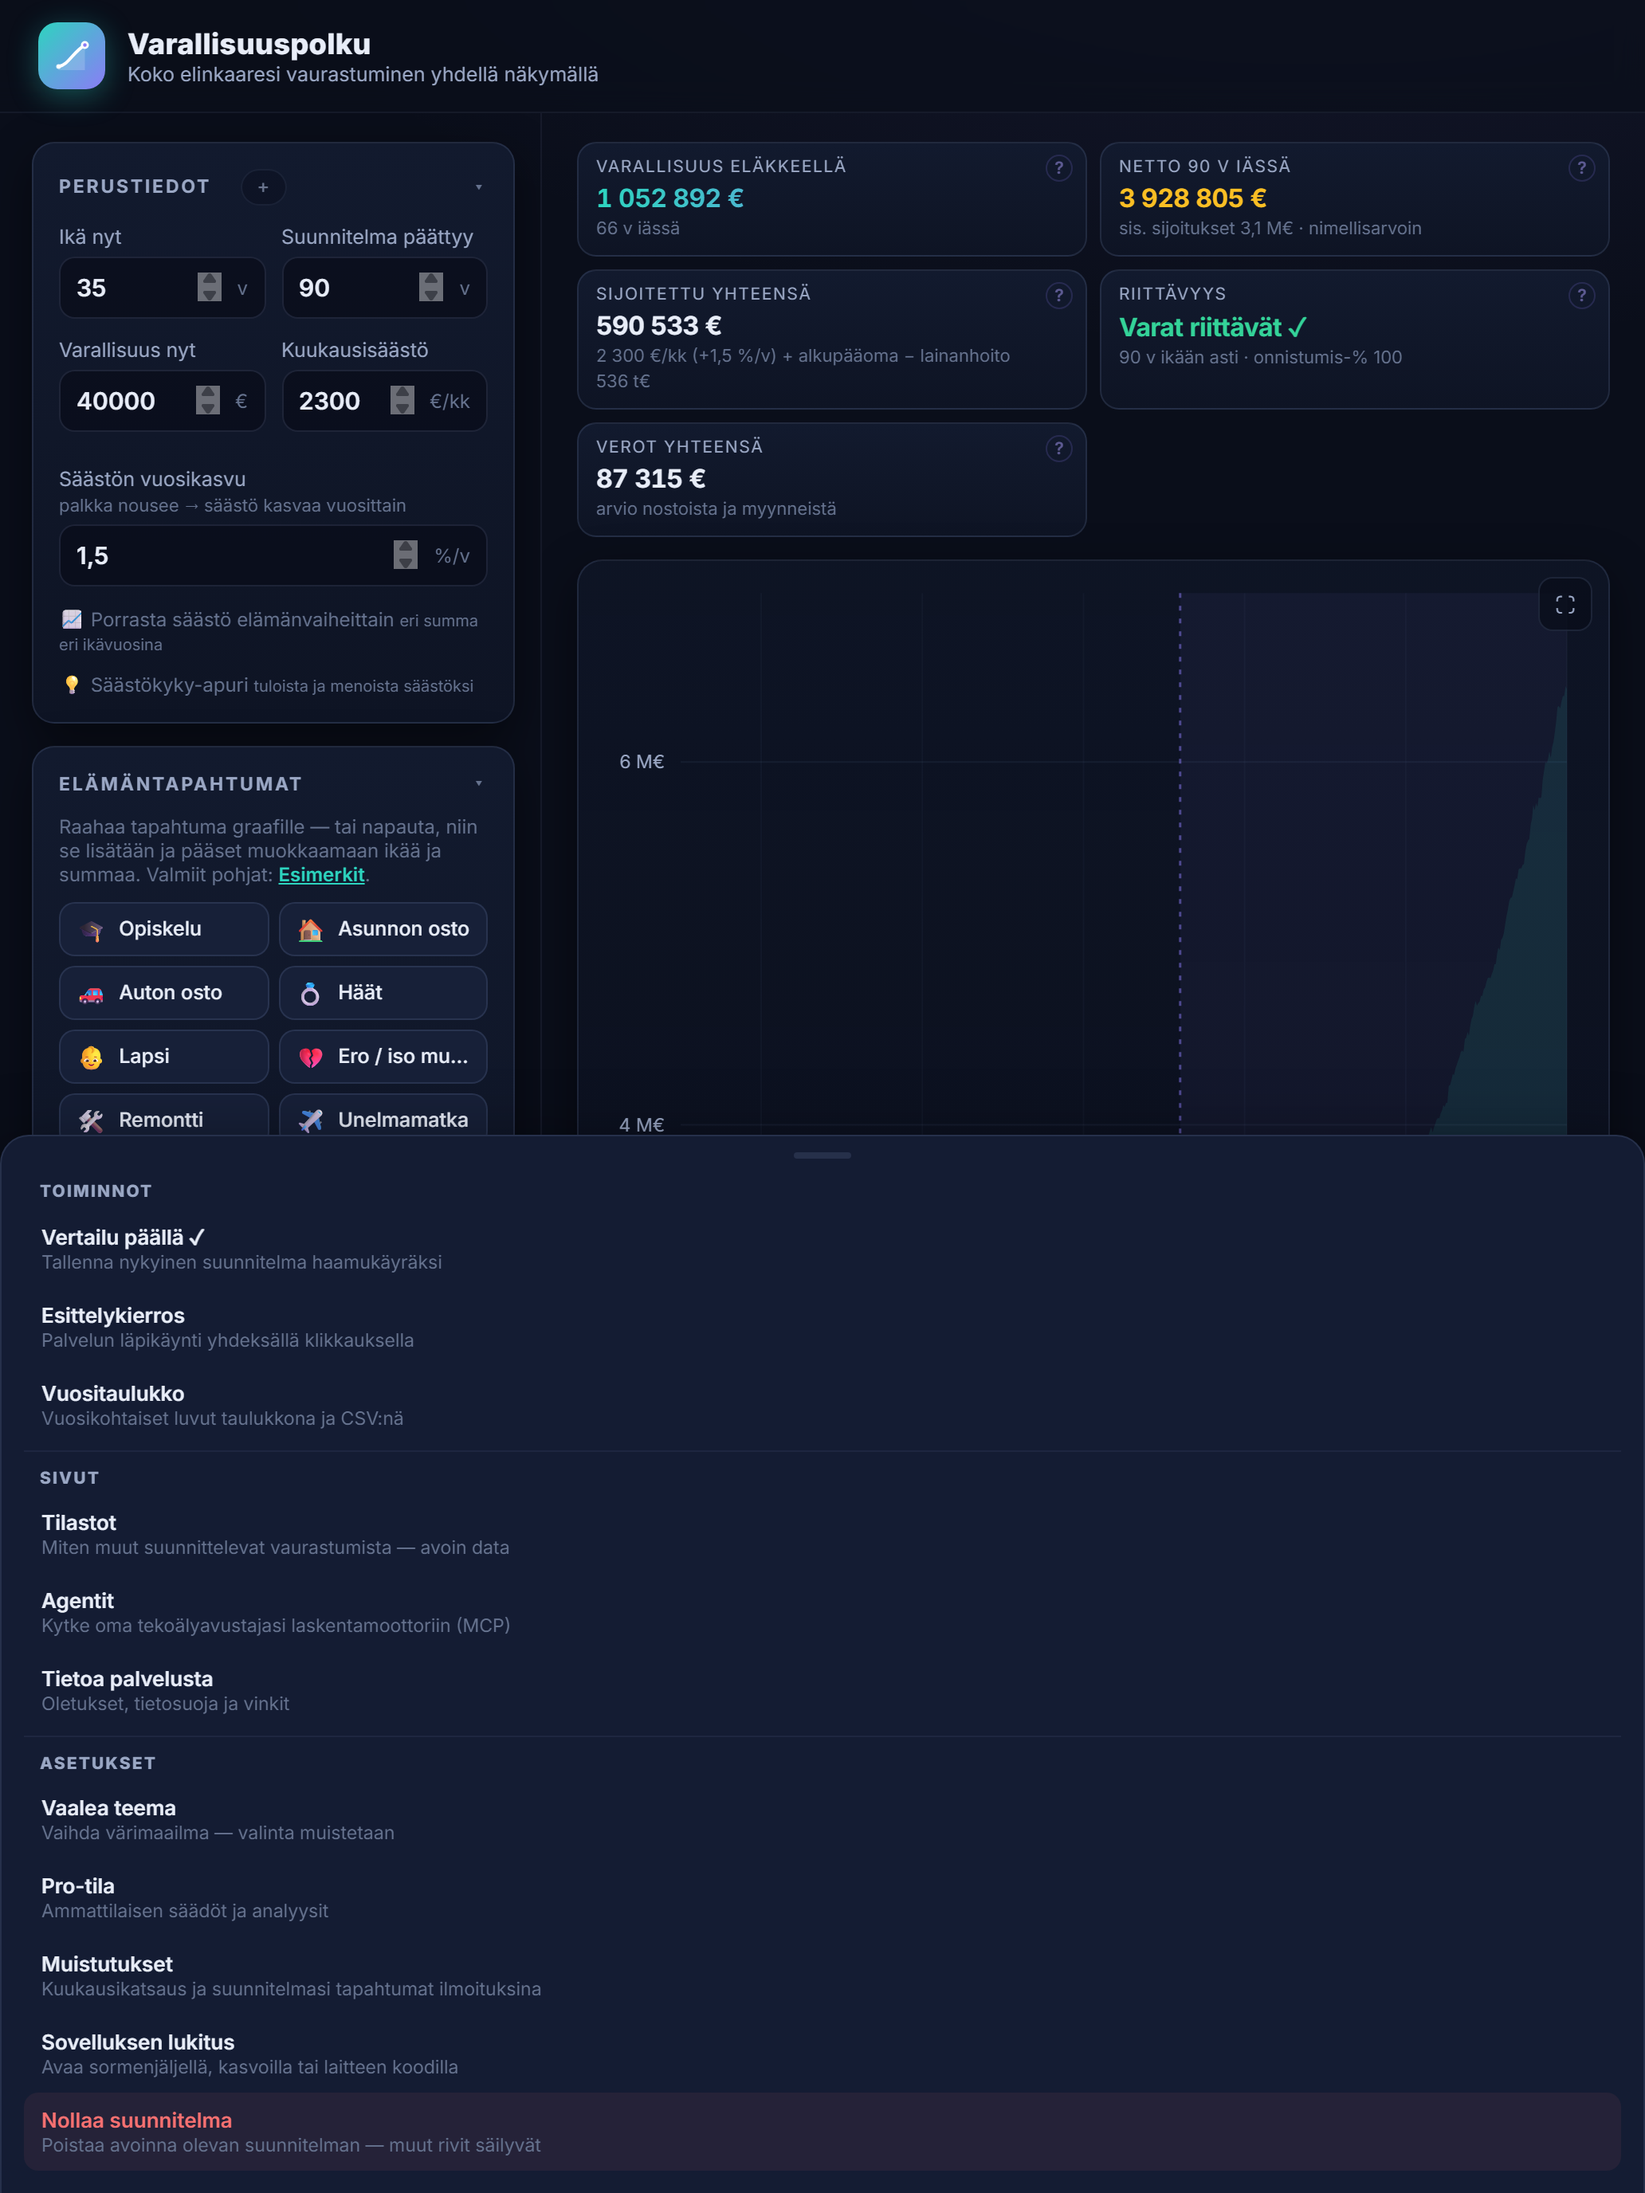
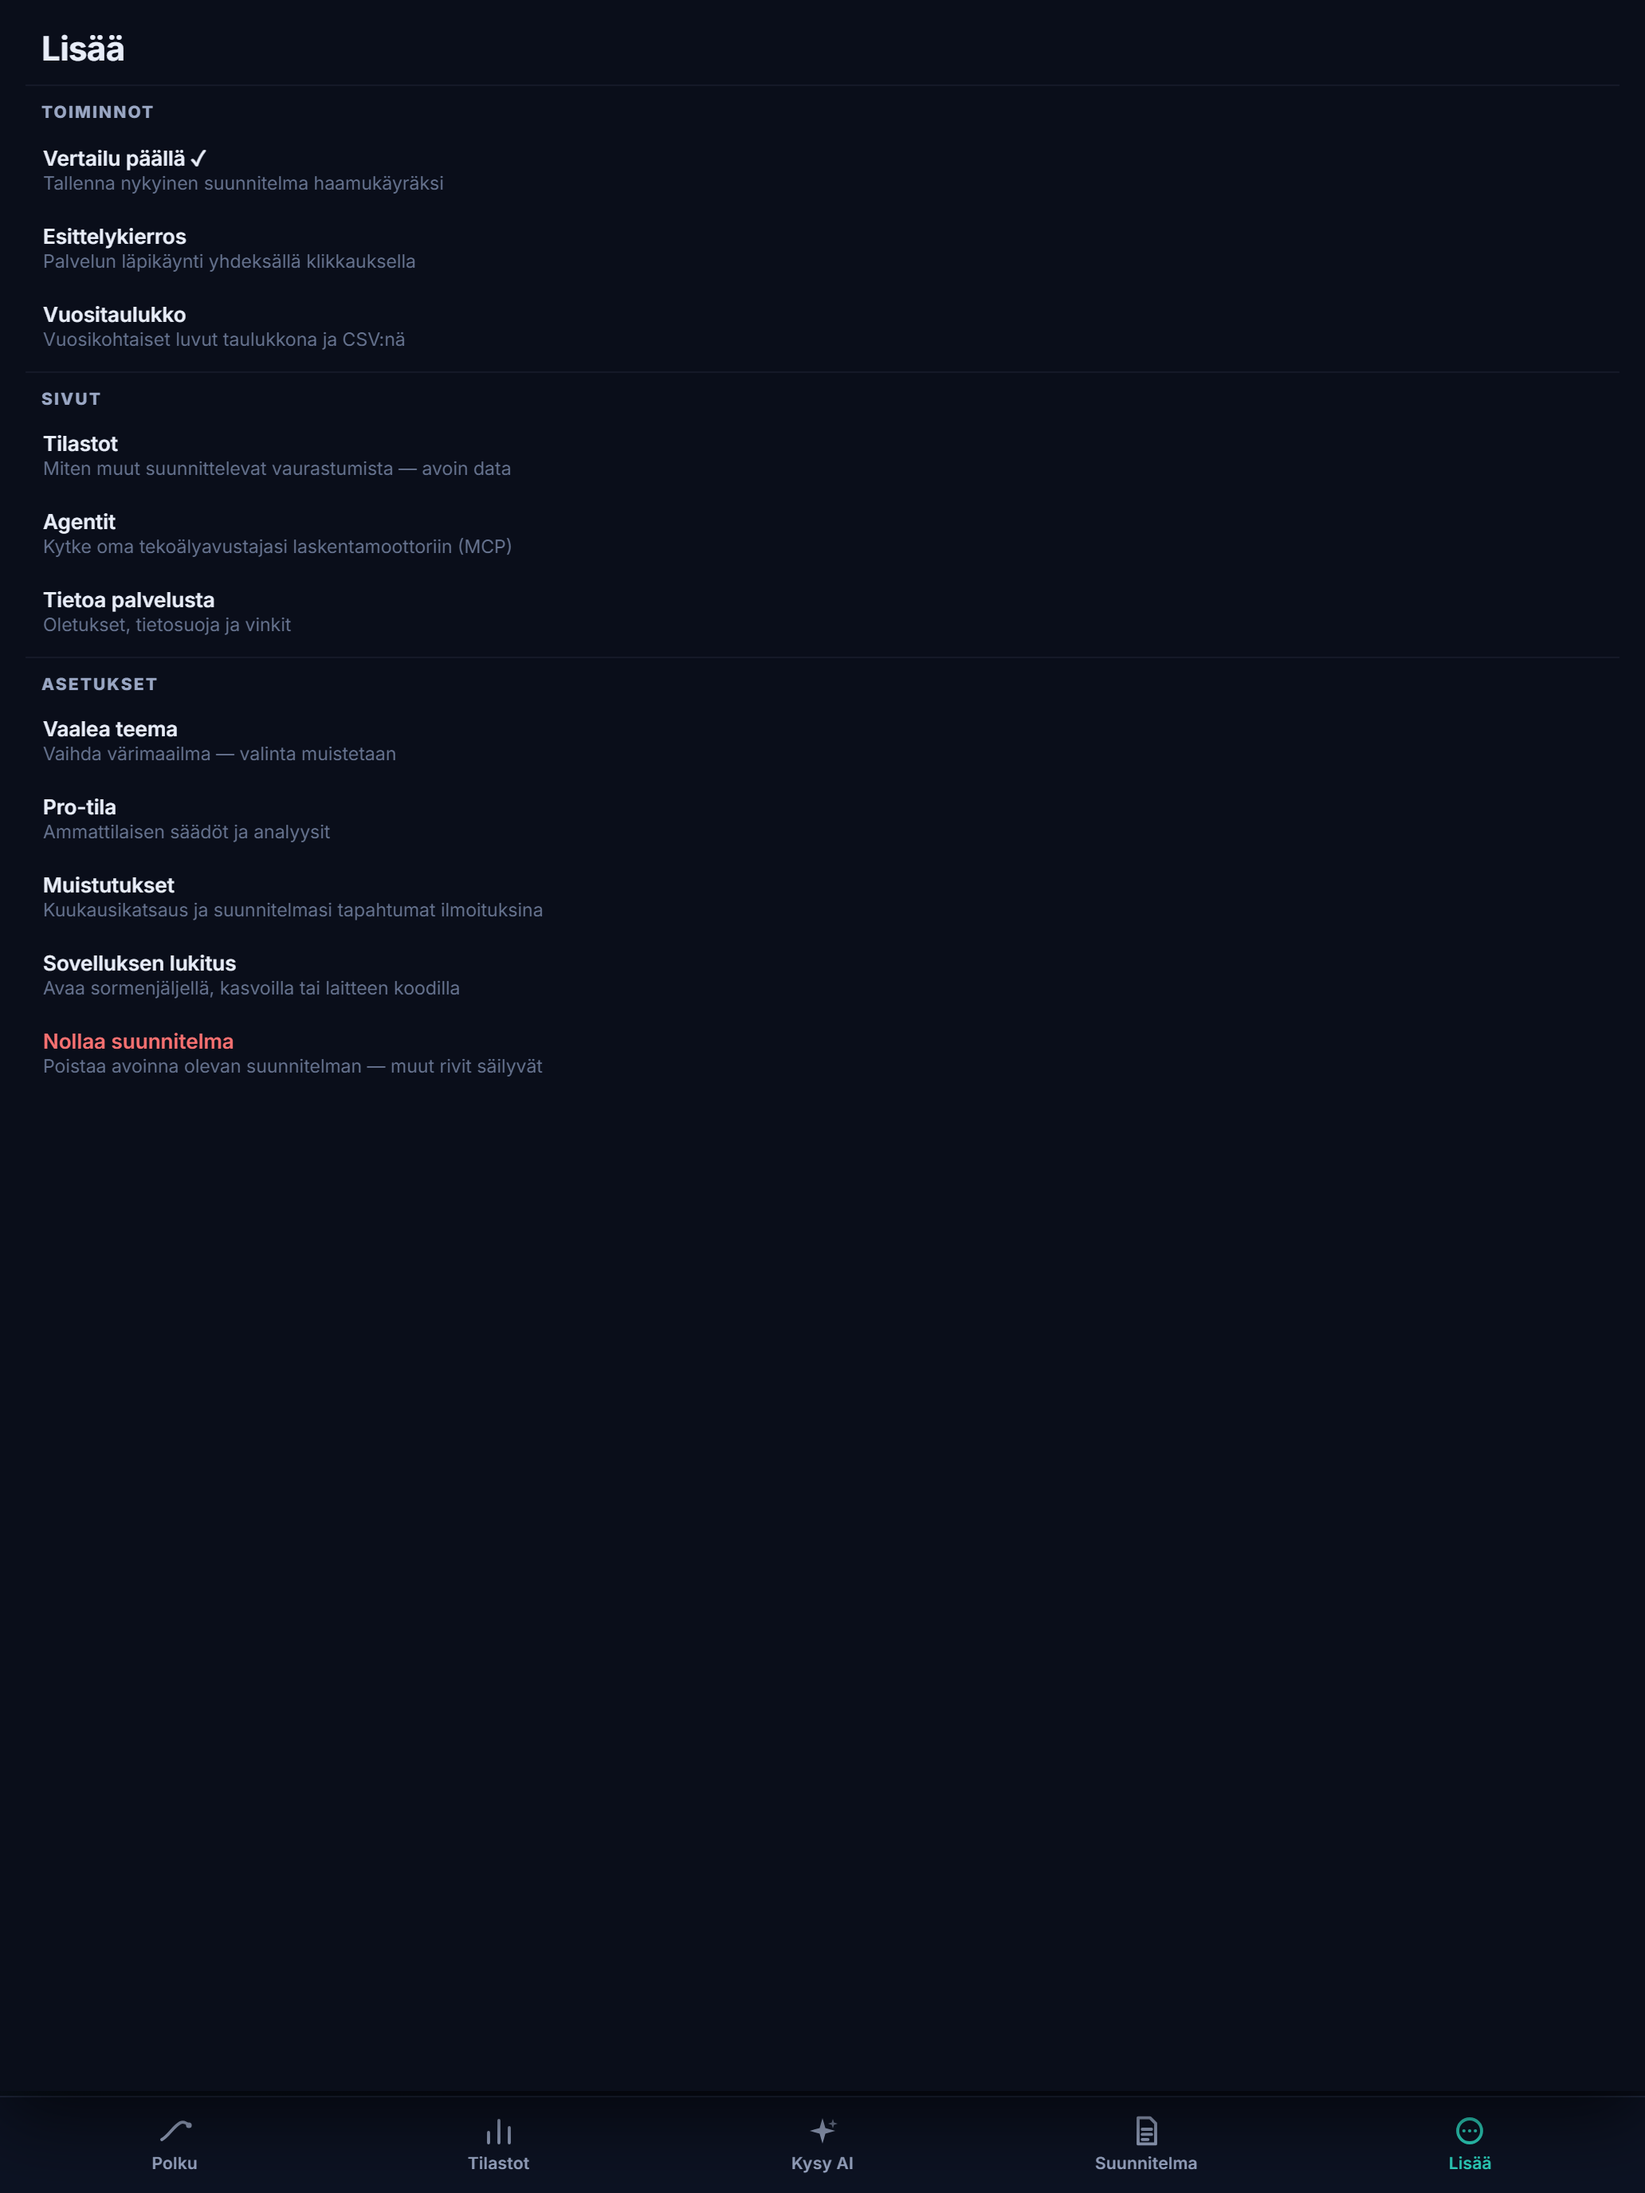
Aidot sivut loppuun asti (Olavin havaintokierros #7): (1) avoin sivu lukitsee taustan skrollauksen — Tulkin/Suunnitelman/Lisään alla ei enää "pyöri" etusivu (body.vp-sivu-auki + html:has-lukko, overscroll-behavior:contain tk-logiin ja summaryyn — skrolliketjutus oli syy siihen että tausta liikkui ja

diff --git a/alapalkki.js b/alapalkki.js
@@ -55,16 +55,20 @@
     /* piirtopöytä ja esittelykierros saavat koko ruudun */
     'body.fs .vp-tabbar{display:none;}',
     'body.fs.vp-has-tabbar{padding-bottom:0 !important;}',
-    /* valikot bottom sheetinä: appimainen tapa — nousee alhaalta koko leveydeltä
+    /* valikot aitoina kokosivuina: koko ruutu alapalkkiin asti, oma otsikko —
+       ei enää bottom sheetiä joka jätti taustan näkyviin (Olavin toive 7.8.)
        (sovellus.js asemoi ☰-valikon inlinena ankkurin alle → !important ohittaa) */
-    'body.vp-has-tabbar .menu{position:fixed !important;top:auto !important;left:0 !important;right:0 !important;bottom:0 !important;',
-    ' max-width:none;border-radius:18px 18px 0 0;border-bottom:0;overflow-y:auto;z-index:130;',
-    ' max-height:calc(100dvh - 80px - env(safe-area-inset-top,0px));',
-    ' padding:8px 14px calc(14px + env(safe-area-inset-bottom,0px));animation:vp-sheet-up 0.22s ease;}',
-    /* vetokahva kertoo että kyseessä on sheet */
-    'body.vp-has-tabbar .menu::before{content:"";display:block;width:36px;height:4px;border-radius:2px;',
-    ' background:var(--border,rgba(148,168,220,0.35));margin:2px auto 6px;}',
-    '@keyframes vp-sheet-up{from{transform:translateY(28px);opacity:0.5}to{transform:none;opacity:1}}',
+    'body.vp-has-tabbar .menu{position:fixed !important;top:0 !important;left:0 !important;right:0 !important;',
+    ' bottom:calc(64px + env(safe-area-inset-bottom,0px)) !important;',
+    ' max-width:none;max-height:none;border:0;border-radius:0;overflow-y:auto;z-index:170;',
+    ' background:var(--bg,#0a0e1a);overscroll-behavior:contain;',
+    ' padding:calc(14px + env(safe-area-inset-top,0px)) 16px 24px;animation:vp-page-in 0.2s ease;}',
+    '.vp-sivuotsikko{font-size:21px;font-weight:700;letter-spacing:-0.3px;color:var(--text,#e8ecf8);margin:4px 10px 10px;}',
+    /* avoin sivu lukitsee taustan skrollauksen — mikään ei "pyöri takana" */
+    'html:has(body.vp-has-tabbar.vp-sivu-auki){overflow:hidden;}',
+    'body.vp-has-tabbar.vp-sivu-auki{overflow:hidden !important;}',
+    'body.vp-has-tabbar .tk-log{overscroll-behavior:contain;}',
+    'body.vp-has-tabbar .summary{overscroll-behavior:contain;}',
     /* Tulkki ja Suunnitelmani täysinä sivuina: koko ruutu alapalkkiin asti,
        ei sulkunappeja — tabit hoitavat poistumisen (Olavin laitehavainto 6.8.) */
     'body.vp-has-tabbar .tk-sheet{top:0 !important;height:auto !important;width:100% !important;',
@@ -147,11 +151,29 @@
   /* ---------- Lisää-sheet (sama sisältö joka sivulla) ---------- */
 
   var sheetEl = null;
-  function suljeSheet() {
-    if (sheetEl) { sheetEl.remove(); sheetEl = null; document.removeEventListener('click', sheetUlkoklikki, true); }
+  var tabPolku = null, tabTilastot = null, tabAi = null, tabSuunnitelma = null, tabLisaa = null;
+
+  /* Yksi totuus tabien tilasta ja taustan skrollilukosta: avoin sivu
+     (Lisää > Tulkki > Suunnitelma) määrää aktiivisen tabin, ja mikä tahansa
+     avoin sivu lukitsee taustasivun skrollauksen (vp-sivu-auki). */
+  function paivitaTabit() {
+    if (!tabPolku) return;
+    var tk = document.querySelector('.tk-sheet');
+    var sum = document.getElementById('summary');
+    var tkAuki = !!(tk && !tk.hidden);
+    var sumAuki = !!(sum && !sum.hidden);
+    var sheetAuki = !!sheetEl;
+    tabLisaa.classList.toggle('act', sheetAuki);
+    tabAi.classList.toggle('act', !sheetAuki && tkAuki);
+    tabSuunnitelma.classList.toggle('act', !sheetAuki && !tkAuki && sumAuki);
+    var perus = !sheetAuki && !tkAuki && !sumAuki;
+    tabPolku.classList.toggle('act', perus && !onStats);
+    tabTilastot.classList.toggle('act', perus && onStats);
+    document.body.classList.toggle('vp-sivu-auki', sheetAuki || tkAuki || sumAuki);
   }
-  function sheetUlkoklikki(e) {
-    if (sheetEl && !sheetEl.contains(e.target)) suljeSheet();
+
+  function suljeSheet() {
+    if (sheetEl) { sheetEl.remove(); sheetEl = null; paivitaTabit(); }
   }
   function vaihdaTeema() {
     if (typeof applyTheme === 'function') { applyTheme(!document.documentElement.classList.contains('light')); return; }
@@ -164,8 +186,14 @@
 
   function avaaSheet() {
     if (sheetEl) { suljeSheet(); return; }
+    suljeSuunnitelma();
+    suljeTulkki();
     var menu = document.createElement('div');
     menu.className = 'menu';
+    var otsikko = document.createElement('div');
+    otsikko.className = 'vp-sivuotsikko';
+    otsikko.textContent = 'Lisää';
+    menu.appendChild(otsikko);
     var sect = function (label) {
       var s = document.createElement('div');
       s.className = 'msect';
@@ -230,7 +258,7 @@
 
     document.body.appendChild(menu);
     sheetEl = menu;
-    setTimeout(function () { document.addEventListener('click', sheetUlkoklikki, true); }, 0);
+    paivitaTabit();
   }
 
   /* ---------- Palkki ---------- */
@@ -297,24 +325,20 @@
     document.body.appendChild(bar);
     document.body.classList.add('vp-has-tabbar');
 
-    /* tab-aktiivitilat: Kysy AI ja Suunnitelma näkyvät valittuina kun niiden
-       sivu on auki — sivumaisuus tuntuu aidolta (hidden-attribuutin vahti) */
+    tabPolku = polku; tabTilastot = tilastot; tabAi = ai;
+    tabSuunnitelma = suunnitelma; tabLisaa = lisaa;
+
+    /* tab-aktiivitilat ja taustan skrollilukko: Tulkin ja Suunnitelman
+       avautumista vahditaan hidden-attribuutista (avautuvat myös muualta
+       kuin tabeista), Lisää-sivu päivittää tilansa itse */
     if (!onStats) {
       setTimeout(function () {
         var tk = document.querySelector('.tk-sheet');
         var sum = document.getElementById('summary');
-        if (!sum) return;
-        var paivita = function () {
-          var tkAuki = !!(tk && !tk.hidden);
-          var sumAuki = !sum.hidden;
-          ai.classList.toggle('act', tkAuki);
-          suunnitelma.classList.toggle('act', sumAuki && !tkAuki);
-          polku.classList.toggle('act', !tkAuki && !sumAuki);
-        };
-        var mo = new MutationObserver(paivita);
+        var mo = new MutationObserver(paivitaTabit);
         if (tk) mo.observe(tk, { attributes: true, attributeFilter: ['hidden'] });
-        mo.observe(sum, { attributes: true, attributeFilter: ['hidden'] });
-        paivita();
+        if (sum) mo.observe(sum, { attributes: true, attributeFilter: ['hidden'] });
+        paivitaTabit();
       }, 400);
     }
 

diff --git a/testit/selain/verify-natiivilisat.js b/testit/selain/verify-natiivilisat.js
@@ -203,9 +203,17 @@ server.listen(8134, async () => {
   ok(await pg.locator('#mi-taulukko').count() === 1, 'Vuositaulukko valikossa appissa');
   const sheetR = await pg.evaluate(() => {
     const r = document.querySelector('.menu').getBoundingClientRect();
-    return { bottom: Math.round(r.bottom), left: Math.round(r.left), ih: window.innerHeight };
+    return {
+      top: Math.round(r.top), bottom: Math.round(r.bottom), left: Math.round(r.left), ih: window.innerHeight,
+      act: document.querySelectorAll('.vp-tab')[4].classList.contains('act'),
+      lukko: document.body.classList.contains('vp-sivu-auki') && getComputedStyle(document.body).overflow === 'hidden',
+      otsikko: (document.querySelector('.menu .vp-sivuotsikko') || {}).textContent,
+    };
   });
-  ok(sheetR.bottom === sheetR.ih && sheetR.left === 0, 'valikko avautuu bottom sheetinä (' + JSON.stringify(sheetR) + ')');
+  ok(sheetR.top === 0 && sheetR.bottom === sheetR.ih - 64 && sheetR.left === 0, 'Lisää avautuu kokosivuna (' + sheetR.top + '–' + sheetR.bottom + ')');
+  ok(sheetR.act, 'Lisää-tabi valittuna kun sivu auki');
+  ok(sheetR.lukko, 'avoin sivu lukitsee taustan skrollauksen');
+  ok(sheetR.otsikko === 'Lisää', 'sivulla oma otsikko');
   await pg.click('#mi-taulukko');
   await pg.waitForTimeout(400);
   ok(await pg.evaluate(() => !document.getElementById('tableModal').hidden), 'Vuositaulukko avautuu valikosta');
@@ -243,6 +251,7 @@ server.listen(8134, async () => {
   ok(tkR.t === 0 && tkR.b === tkR.ih - 64, 'Tulkki täytenä sivuna alapalkin yllä (' + tkR.t + '–' + tkR.b + ')');
   ok(tkR.act, 'Kysy AI -tabi valittuna kun Tulkki auki');
   ok(tkR.x === 'none', 'Tulkki ilman ✕-nappia appissa');
+  ok(await pg.evaluate(() => document.body.classList.contains('vp-sivu-auki')), 'Tulkki lukitsee taustan skrollauksen');
   // Suunnitelma-tabi sulkee Tulkin ja avaa oman sivunsa (keskinäinen poissulku)
   await pg.click('.vp-tab:nth-child(4)');
   await pg.waitForTimeout(400);

diff --git a/sw.js b/sw.js
@@ -5,7 +5,7 @@
    välimuistista. Näin julkaisut päivittyvät heti kun verkko on käytössä,
    mutta sovellus toimii myös kokonaan ilman yhteyttä. */
 
-const CACHE = 'varallisuuspolku-v35'; // bump isoissa julkaisuissa: asennuserä pysyy eheänä parina
+const CACHE = 'varallisuuspolku-v36'; // bump isoissa julkaisuissa: asennuserä pysyy eheänä parina
 const CORE = [
   './',
   './index.html',
